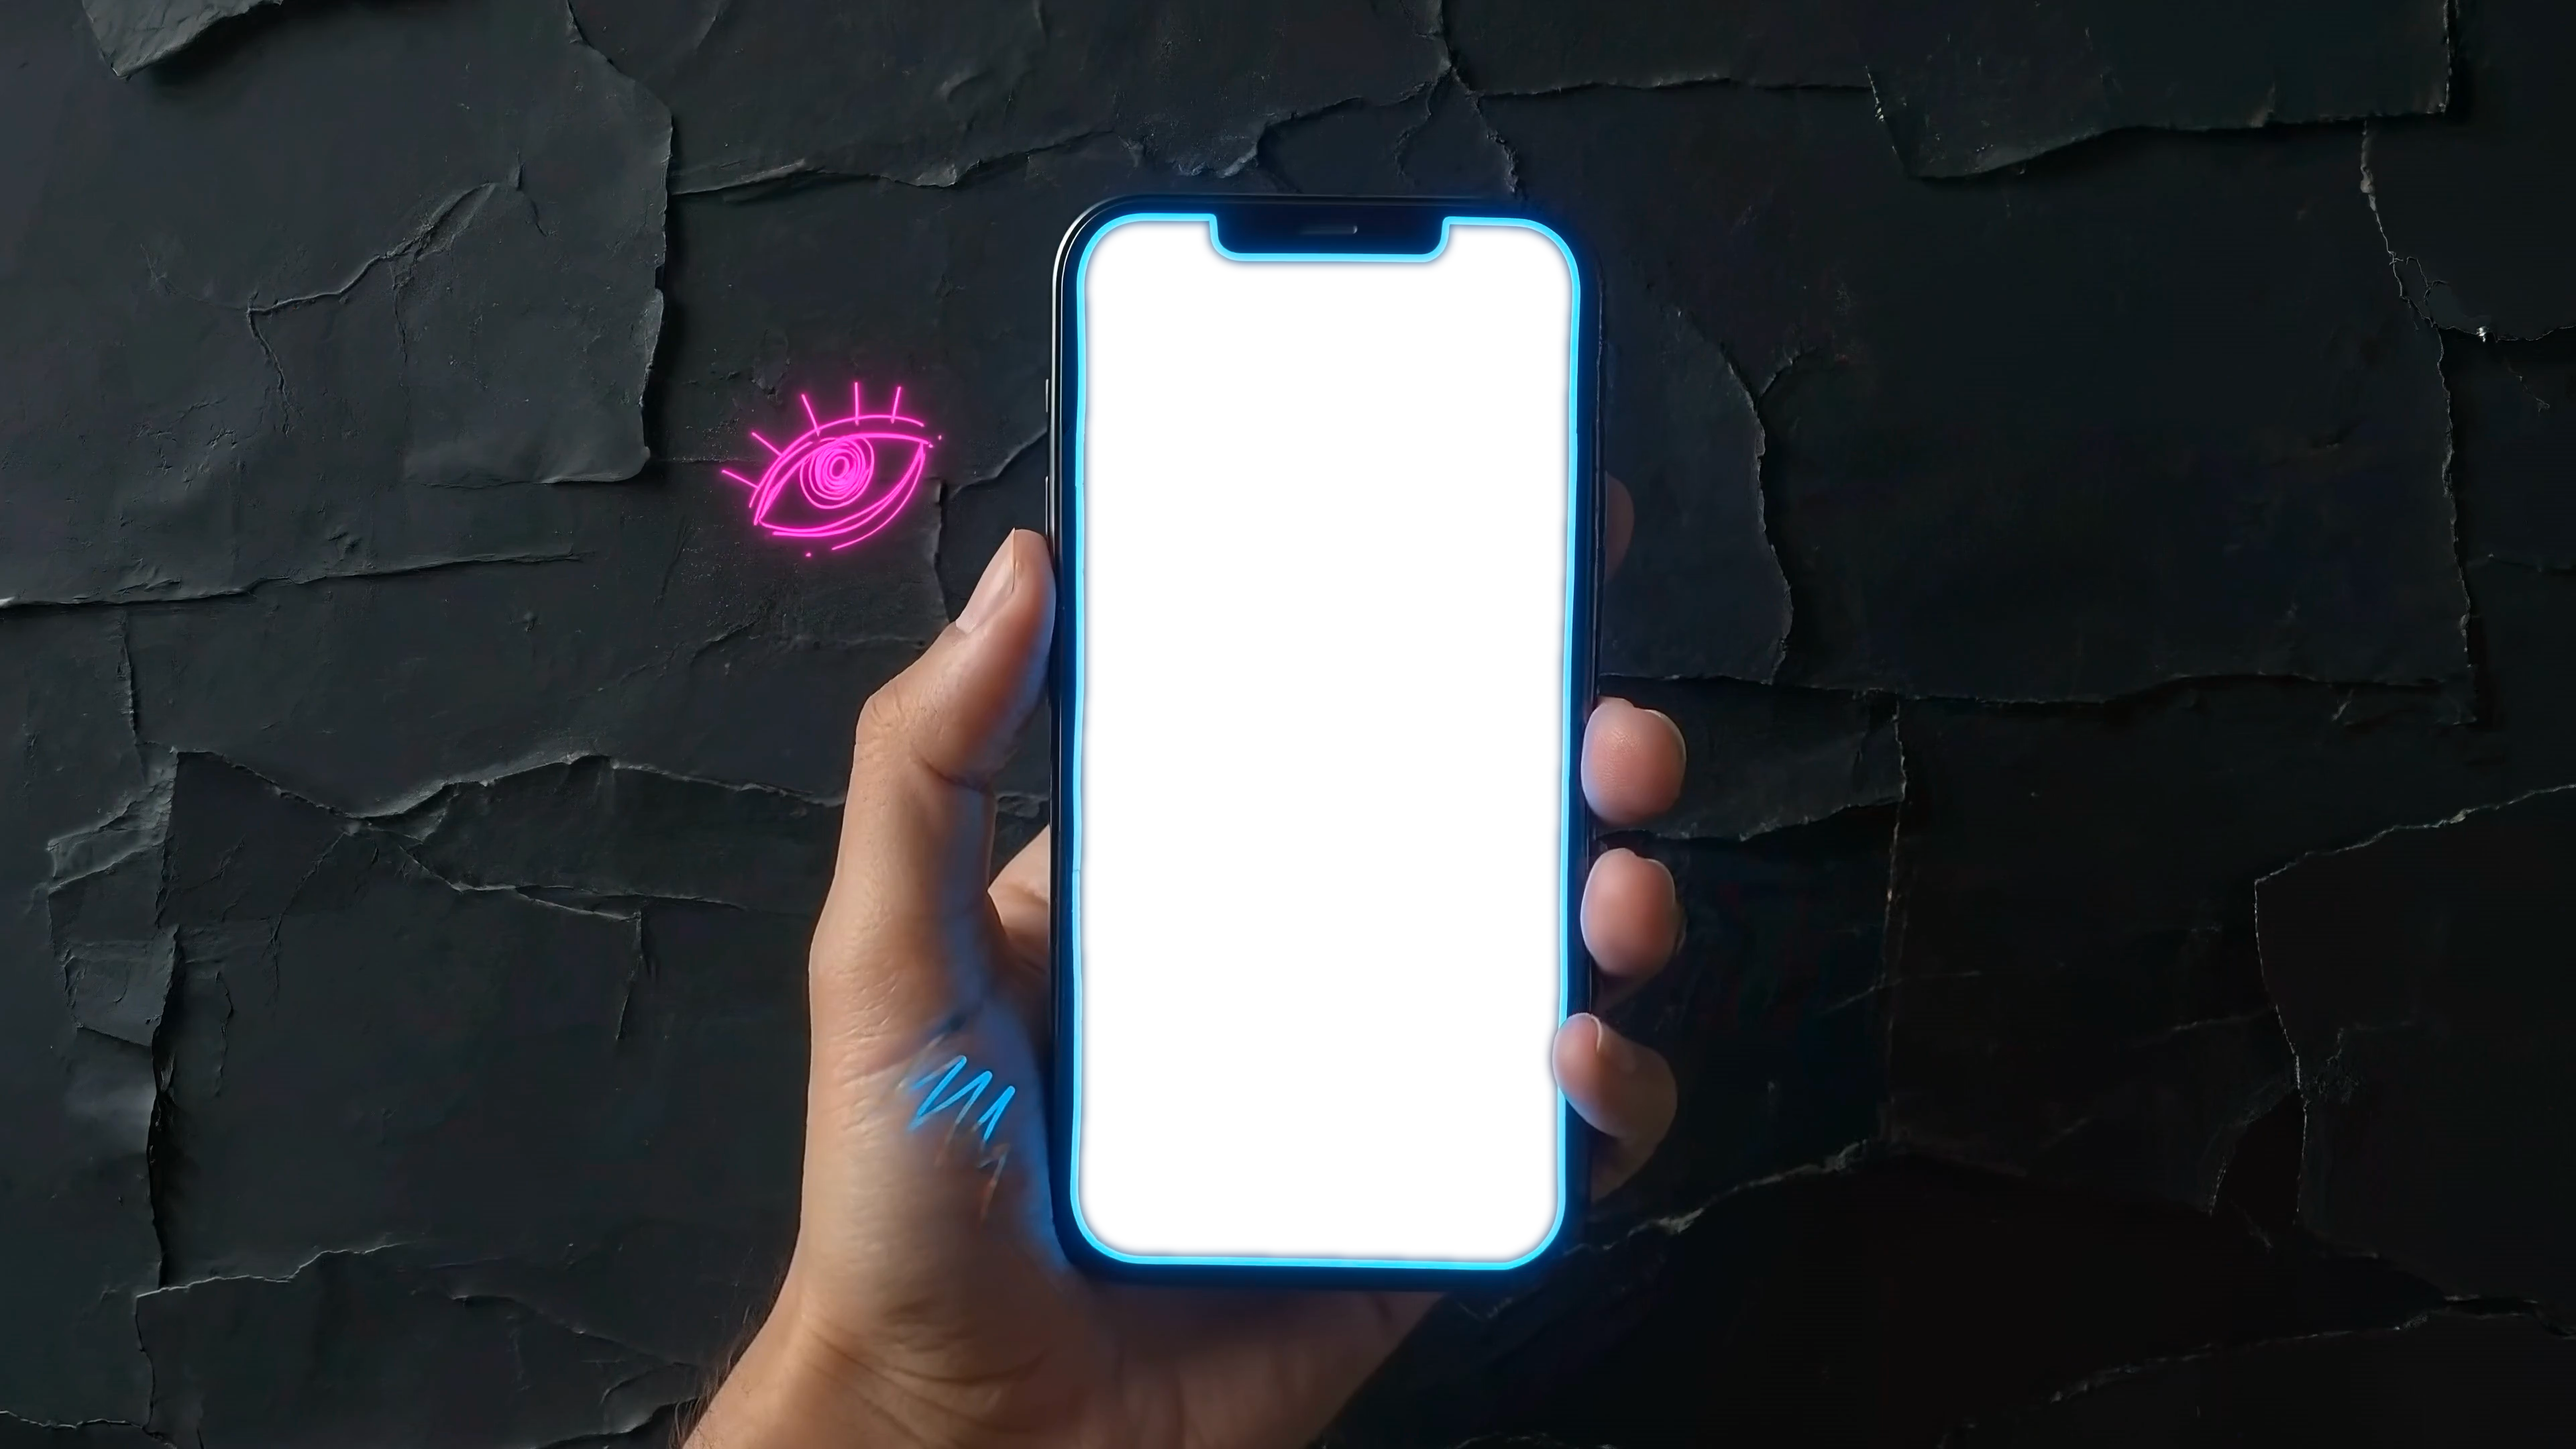
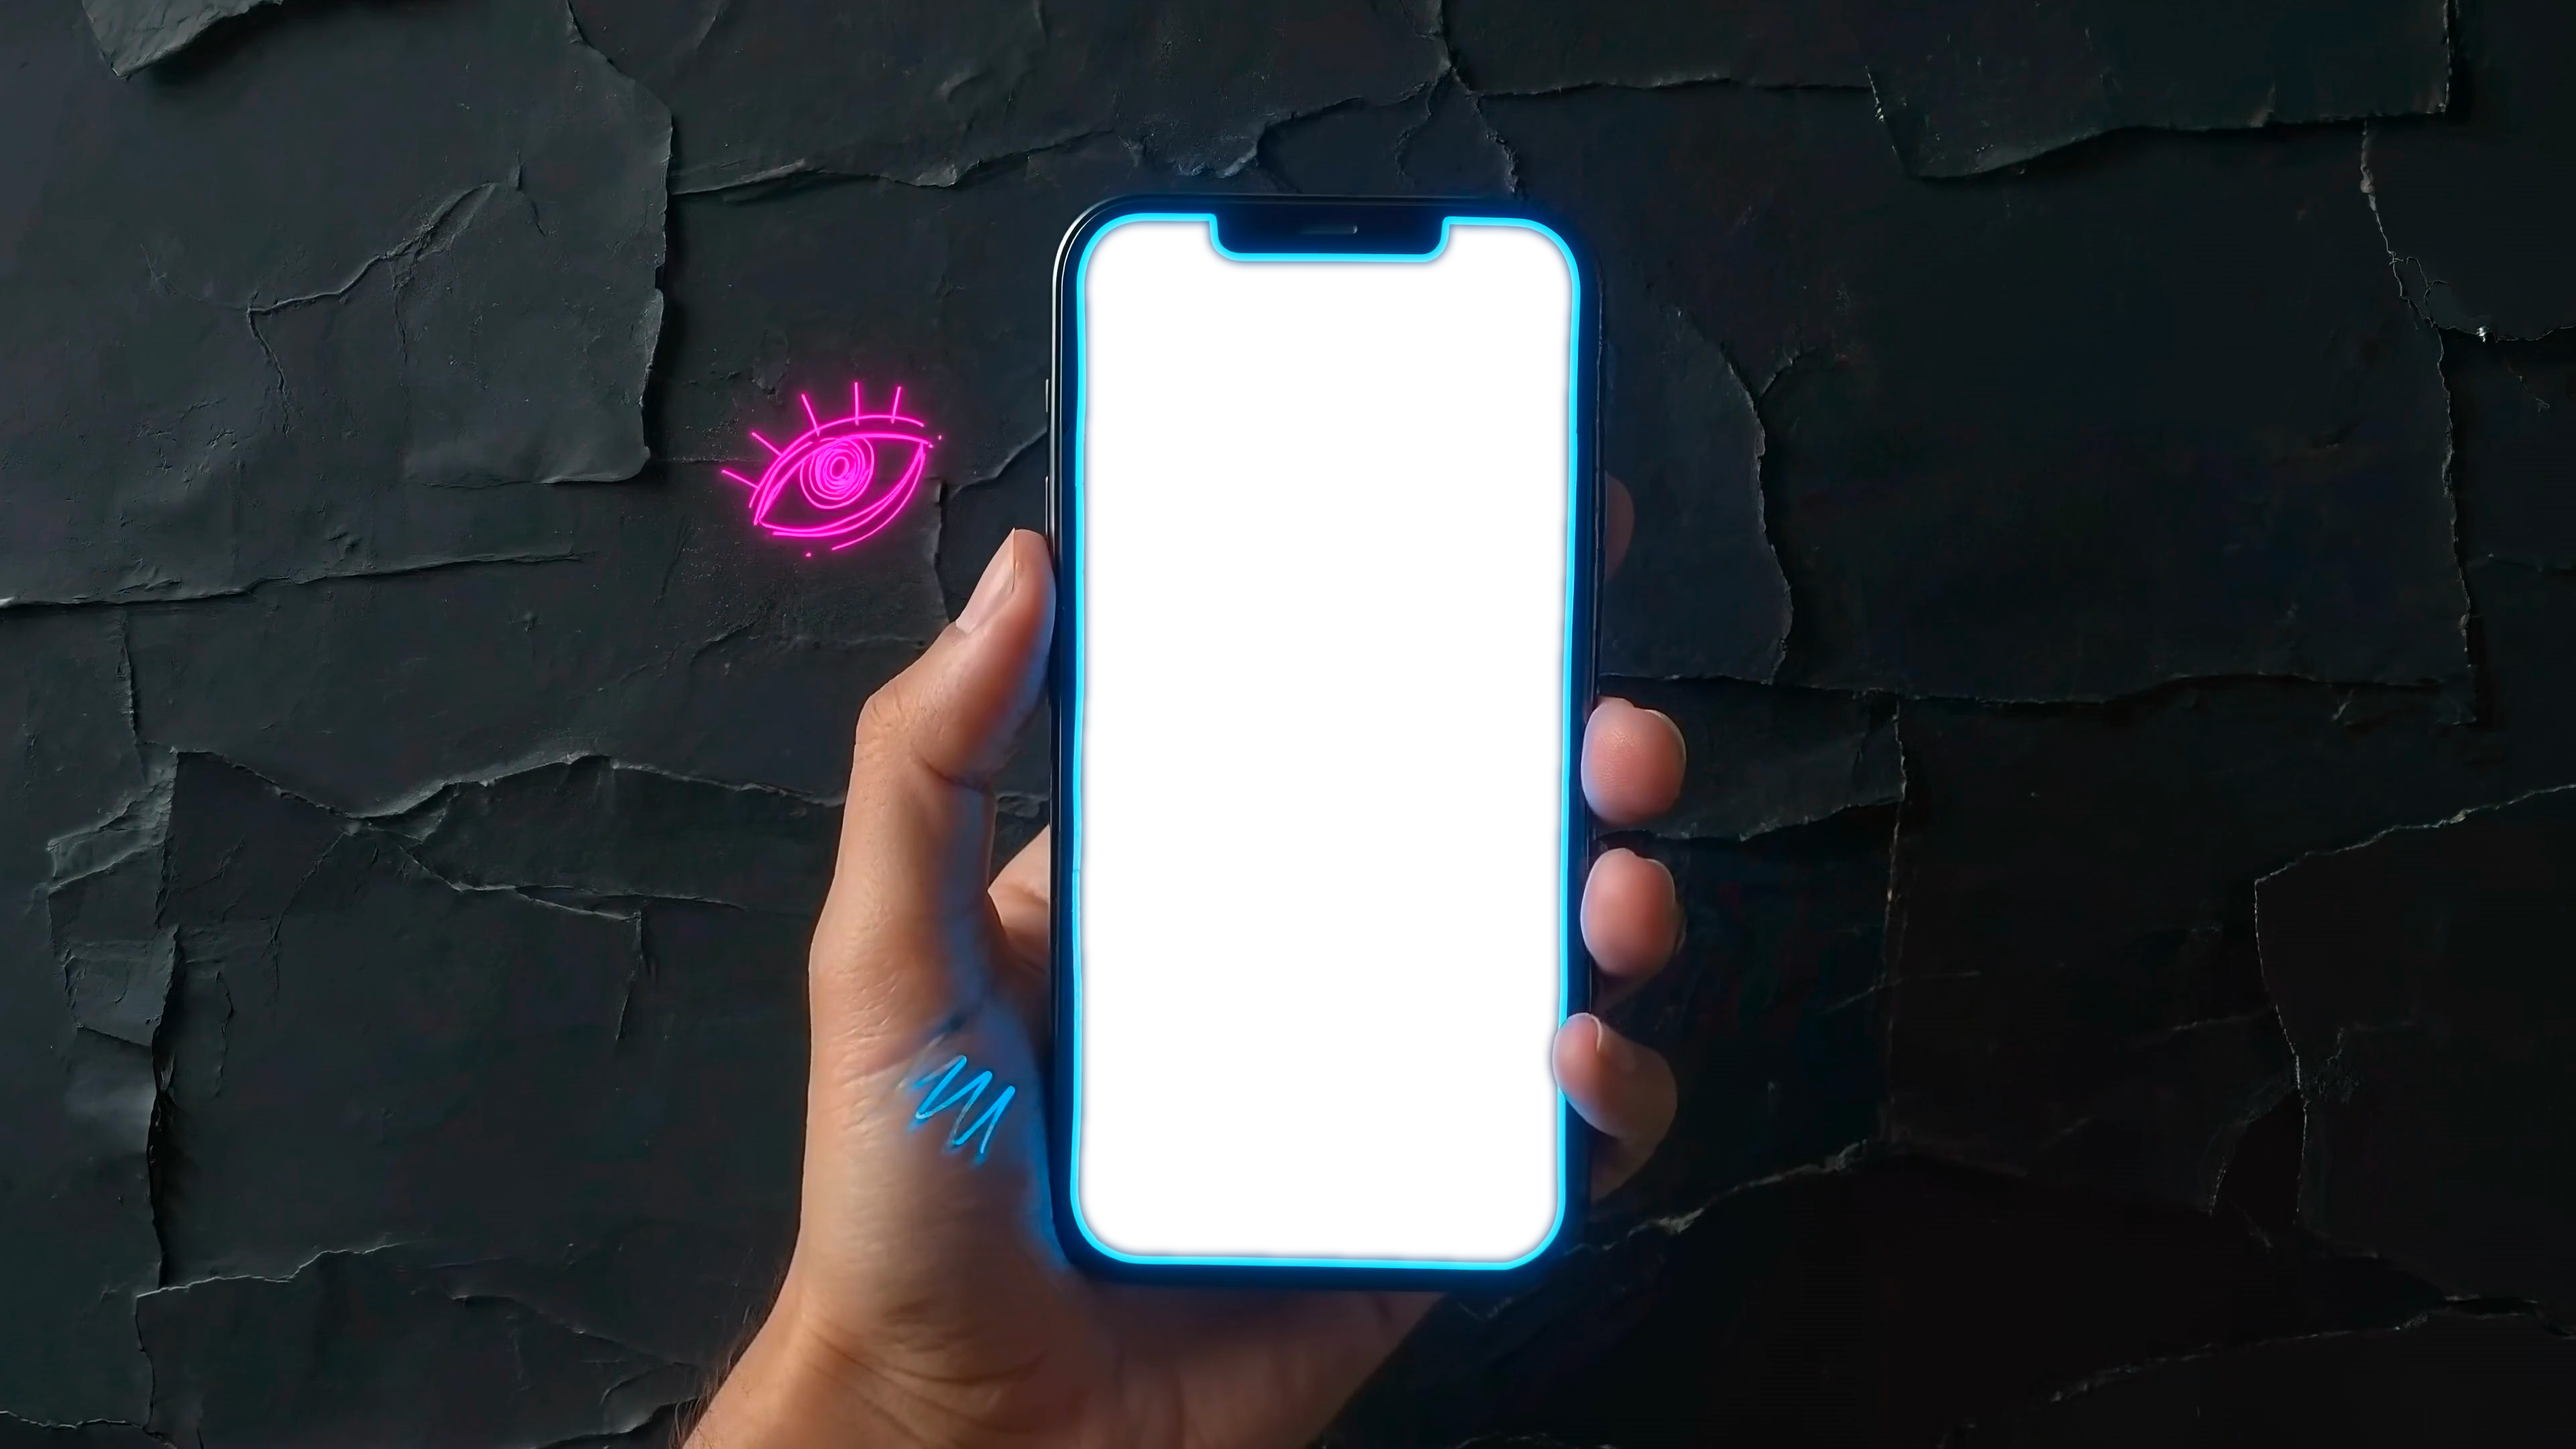
fix: widen scenes panel to 460px and eliminate URL rewrite that caused 404 on refresh

diff --git a/editor.html b/editor.html
@@ -301,12 +301,18 @@
       flex: 1;
       min-height: 0;
       display: grid;
-      grid-template-columns: 310px 1.22fr 355px;
+      grid-template-columns: 460px 1.15fr 345px;
       gap: 12px;
       align-items: stretch;
     }
 
-    @media (max-width: 1100px) {
+    @media (max-width: 1280px) {
+      .cockpit-grid {
+        grid-template-columns: 410px 1fr 330px;
+      }
+    }
+
+    @media (max-width: 1080px) {
       html, body {
         height: auto;
         max-height: none;
@@ -1070,12 +1076,15 @@
 
     .slot-details-row {
       display: flex;
-      gap: 6px;
+      gap: 8px;
       align-items: center;
+      min-width: 0;
+      width: 100%;
     }
 
     .slot-url-input {
       flex: 1;
+      min-width: 90px;
       background: #0b0c10;
       border: 1px solid rgba(255, 255, 255, 0.08);
       color: #ec4899;
@@ -1085,6 +1094,7 @@
       font-family: ui-monospace, monospace;
       outline: none;
       transition: border-color 0.2s ease, box-shadow 0.2s ease;
+      text-overflow: ellipsis;
     }
 
     .slot-url-input:focus {
@@ -1092,8 +1102,15 @@
       box-shadow: 0 0 0 2px rgba(236, 72, 153, 0.18);
     }
 
+    .slot-slides-wrap {
+      display: flex;
+      align-items: center;
+      gap: 5px;
+      flex-shrink: 0;
+    }
+
     .slot-slides-input {
-      width: 46px;
+      width: 44px;
       background: #0b0c10;
       border: 1px solid rgba(255, 255, 255, 0.08);
       color: #fff;
@@ -1104,6 +1121,7 @@
       text-align: center;
       outline: none;
       transition: border-color 0.2s ease, box-shadow 0.2s ease;
+      flex-shrink: 0;
     }
 
     .slot-slides-input:focus {
@@ -1697,14 +1715,6 @@
   </div>
 
   <script>
-    // Limpieza de URL: oculta 'editor.html' de la barra de direcciones dejando '/editor'
-    try {
-      if (window.location.pathname.endsWith('editor.html')) {
-        const cleanPath = window.location.pathname.replace(/\/editor\.html$/, '/editor');
-        window.history.replaceState({}, document.title, cleanPath + window.location.search);
-      }
-    } catch (e) {}
-
     const CHANNEL_NAME = 'dm_presentation_bus';
     const bus = new BroadcastChannel(CHANNEL_NAME);
 
@@ -2314,8 +2324,8 @@
             ` : `
               ${getSlideThumbnailHtml(s, false)}
               <input class="slot-url-input" placeholder="URL Google Slides / PPT de esta escena..." value="${escapeHtml(s.url || '')}" onchange="updateSlotUrl('${s.id}', this.value)" title="Enlace de la presentación" />
-              <div style="display: flex; align-items: center; gap: 6px;" title="Total escenas antes de pasar al vídeo">
-                <span style="font-size: 11px; color: #94a3b8; font-weight: 600;">Slides:</span>
+              <div class="slot-slides-wrap" title="Total diapositivas antes de pasar al vídeo">
+                <span style="font-size: 11px; color: #94a3b8; font-weight: 600; white-space: nowrap;">Slides:</span>
                 <input type="number" class="slot-slides-input" min="1" max="200" value="${s.slidesCount || 1}" onchange="updateSlotSlidesCount('${s.id}', this.value)" oninput="updateSlotSlidesCount('${s.id}', this.value)" />
               </div>
             `}
@@ -3387,7 +3397,9 @@
       showToast(`${deckName} activa`);
       updateStageLink();
       try {
-        window.history.replaceState({}, document.title, window.location.pathname + '?deck=' + encodeURIComponent(newDeckId));
+        const u = new URL(window.location.href);
+        u.searchParams.set('deck', newDeckId);
+        window.history.replaceState({}, document.title, u.pathname + u.search);
       } catch (e) {}
     }
 
@@ -3587,7 +3599,9 @@
 
       updateStageLink();
       try {
-        window.history.replaceState({}, document.title, window.location.pathname + '?deck=' + encodeURIComponent(newId));
+        const u = new URL(window.location.href);
+        u.searchParams.set('deck', newId);
+        window.history.replaceState({}, document.title, u.pathname + u.search);
       } catch (e) {}
 
       showToast(`${name} creada y guardada`);

diff --git a/presentation.html b/presentation.html
@@ -1942,14 +1942,6 @@
   </div>
 
   <script>
-    // Limpieza de URL: oculta 'presentation.html' de la barra de direcciones dejando '/presentation'
-    try {
-      if (window.location.pathname.endsWith('presentation.html')) {
-        const cleanPath = window.location.pathname.replace(/\/presentation\.html$/, '/presentation');
-        window.history.replaceState({}, document.title, cleanPath + window.location.search);
-      }
-    } catch (e) {}
-
     // Modo estático: sin transiciones (para visor de calibración)
     const IS_STATIC = new URLSearchParams(window.location.search).has('static');
     if (IS_STATIC) {

diff --git a/index.html b/index.html
@@ -636,14 +636,6 @@
   <div class="toast" id="toast">Acción completada</div>
 
   <script>
-    // Limpieza de URL: oculta 'index.html' de la barra de direcciones dejando '/'
-    try {
-      if (window.location.pathname.endsWith('index.html')) {
-        const cleanPath = window.location.pathname.replace(/\/index\.html$/, '/');
-        window.history.replaceState({}, document.title, cleanPath + window.location.search);
-      }
-    } catch (e) {}
-
     let allDecks = [];
     let renameTargetId = null;
 
